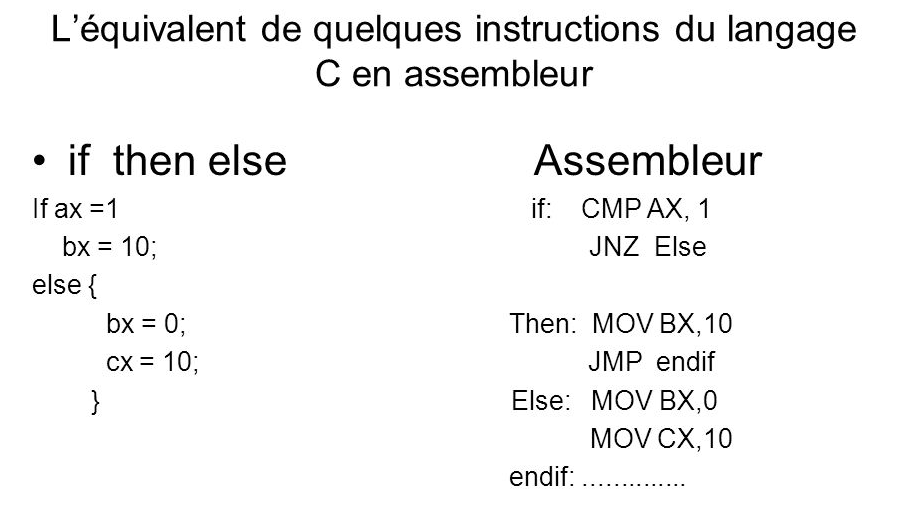
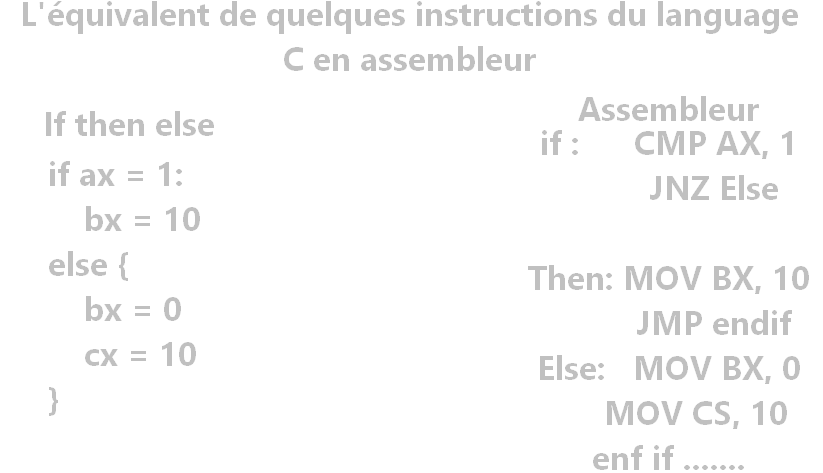
Remade entirely the html / css of web pages, added background-x images

diff --git a/src/main/resources/static/pages/display/page2.html b/src/main/resources/static/pages/display/page2.html
@@ -6,73 +6,71 @@
     <script src="https://cdn.jsdelivr.net/npm/sockjs-client@1/dist/sockjs.min.js"></script>
     <script src="/js/dependencies/Stomp.js"></script>
     <script src="/js/remote-redirect.js"></script>
+    <link rel="stylesheet" href="/pages/styles.css">
     <style>
-      * {
-            font-family: 'Roboto', sans-serif;
-            width: 100%;
-      }
-      h1 {
-            text-align: center;
-      }
-      p {
-            font-size: 20px;
-      }
-      .flexBox {
-            display: flex;
-            flex-direction: column;
-            align-items: center;
-            align-content: center;
-            justify-content: center;
-      }
-
-      img {
-        width: 50%;
-        height: 50%;
-      }
-      @font-face {
-      font-family: Roboto;
-      src: url('https://fonts.googleapis.com/css2?family=Roboto&display=swap%27');
-      }
-
+        @keyframes move {
+            from {
+                margin-top: 350%;
+            }
+            to {
+                margin-top: -350%;
+            }
+        }
 
     </style>
+
 </head>
 <body onload="connect()" class="flexBox">
-<h1>Languages de Haut niveau</h1>
-<p>
-    Les langages de haut niveau sont des languages qui "s'éloignent" de la machine pour ce raprocher de l'utilisateur;
-    Un language de haut niveau, permet à l'utilisateur d'effectuer des actions complexes en se souciant de peux de
-    choses,
-    comme le type de processeur, ou encore le système d'exploitation.
-</p>
-<p>
-    Les languages de haut niveau, pendant qu'ils sont éxécutés (Le runtime), n'existent pas pour la plus part (mise à
-    part, par exemple
-    le python, qui est directement interprété).
-</p>
-<p>
-    Pour certains languages, ils sont traduits par un compilateur, qui va se charger de transcrire le code de haut
-    niveau en un code
-    de plus bas niveau. Ce code peut être directement lu par l'os (comme le ByteCode), ou par un interpreteur, qui va se
-    charger d'interpréter le
-    code traduit, pour ainsi effectuer des appels au système d'exploitation
-</p>
-<p>
-    Prenons l'exemple du java, qui est un language de haut niveau.
-</p>
-<p>
-    Le java, écrit dans un fichier au format ".java", sera détruit dés lors que ce fichier sera compilé. Un compilateur
-    va se charger de traduire le code source ".java" en ByteCode, qui sera stoqué dans un ficher ".class".
-</p>
-<p>
-    De là, ce fichier ".class", pour être éxécuté, a besoins d'une machine virtuelle, pour le cas d'un ByteCode
-    provenant de javac, il
-    lui faudra une JVM (Java Virtual Machine). Chaque architecture d'ordinateur a une version spécifique de la JVM.
-</p>
-<p>
-    Une fois la JVM démarrée, elle interprètera les instructions du bytecode, et traduira le résultat obtenu lors de
-    l'execution en language
-    machine (en binnaire)
-</p>
+<div class="flexBox" id="content">
+    <img src="/images/background-1.png" alt="Snow" id="background">
+    <div class="flexBox" id="text">
+        <h1>Languages de <span style="color: #008cff">Haut niveau</span></h1>
+        <p>
+            Les langages de <span style="color: #008cff">haut niveau</span> sont des languages qui "s'éloignent" de la
+            <span style="color: #008cff">machine</span> pour ce raprocher de
+            <span style="color: #2cde5c">l'utilisateur;</span>
+            Un language de <span style="color: #008cff">haut niveau</span>, permet à <span style="color: #2cde5c">l'utilisateur</span>
+            d'effectuer des actions complexes en se souciant de peux de choses,
+            comme le type de <span style="color: #fc6f03">processeur</span>, ou encore le <span style="color: #fc6f03">système d'exploitation.</span>
+        </p>
+        <p>
+            Les languages de <span style="color: #008cff">haut niveau</span>, pendant qu'ils sont éxécutés (Le runtime),
+            n'existent pas pour la plus part
+            (mise à part, par exemple le python, qui est directement interprété).
+        </p>
+        <p>
+            Pour certains languages, ils sont traduits par un <span style="color: #008cff">compilateur</span>, qui va se
+            charger de transcrire le code de
+            haut niveau en un code de plus <span style="color: #ff6200">bas niveau</span>. Ce code peut être directement
+            lu par l'os (comme le <span style="color: #ff6200">ByteCode</span>), ou par un <span style="color: #008cff">interpreteur</span>,
+            qui va se charger <span style="color: #008cff">d'interpréter</span> le
+            code traduit, pour ainsi effectuer des <span style="color: #fc6f03">appels au système d'exploitation</span>
+        </p>
+        <p>
+            Prenons l'exemple du <span style="color: #f540ff">java</span>, qui est un language de <span
+                style="color: #008cff">haut niveau</span>.
+        </p>
+        <p>
+            Le java, écrit dans un fichier au format <span style="color: #f540ff">".java"</span>, sera détruit dés lors
+            que ce fichier sera compilé. Un
+            compilateur va se charger de traduire le code source <span style="color: #f540ff">".java"</span> en <span
+                style="color: #ff6200">ByteCode</span>, qui sera stoqué dans un ficher <span style="color: #ff6200">".class".</span>
+        </p>
+        <p>
+            De là, ce fichier <span style="color: #008cff">".class"</span>, pour être éxécuté, a besoins d'une <span
+                style="color: #008cff">machine virtuelle</span>, pour le cas d'un <span
+                style="color: #ff6200">ByteCode</span>
+            provenant de <span style="color: #f540ff">javac</span>, il lui faudra une <span style="color: #f540ff">JVM (Java Virtual Machine)</span>.
+            Chaque architecture d'ordinateur a une version spécifique de la <span style="color: #f540ff">JVM</span>,
+            écrite en <span style="color: #ff6200">C/C++</span> (Exemple: <span style="color: #f540ff">HotSpot</span>)
+        </p>
+        <p>
+            Une fois la <span style="color: #f540ff">JVM</span> démarrée, elle interprètera les instructions du
+            bytecode, et traduira le résultat obtenu
+            lors de l'execution en <span style="color: #008cff">language machine</span> (en <span
+                style="color: #ff6200">binnaire</span>)
+        </p>
+    </div>
+</div>
 </body>
 </html>

diff --git a/src/main/resources/static/pages/display/page1.html b/src/main/resources/static/pages/display/page1.html
@@ -6,46 +6,41 @@
     <script src="https://cdn.jsdelivr.net/npm/sockjs-client@1/dist/sockjs.min.js"></script>
     <script src="/js/dependencies/Stomp.js"></script>
     <script src="/js/remote-redirect.js"></script>
+    <link rel="stylesheet" href="/pages/styles.css">
     <style>
-      * {
-            font-family: 'Roboto', sans-serif;
-            text-align: center;
-            width: 100%;
-      }
-      p {
-            font-size: 20px;
-      }
-      .flexBox {
-            display: flex;
-            flex-direction: column;
-            align-items: center;
-            align-content: center;
-            justify-content: center;
-      }
-
-      img {
-        width: 50%;
-        height: 50%;
-      }
-      @font-face {
-      font-family: Roboto;
-      src: url('https://fonts.googleapis.com/css2?family=Roboto&display=swap%27');
-      }
-
+        @keyframes move {
+            from {
+                margin-top: 230%;
+            }
+            to {
+                margin-top: -230%;
+            }
+        }
     </style>
 </head>
 <body onload="connect()" class="flexBox">
-    <h1>Languages de Bas niveau</h1>
+<div class="flexBox" id="content">
+    <img src="/images/background-3.png" id="background"></div>
+<div id="text">
+    <h1>Languages de <span style="color: #008cff">Bas niveau</span></h1>
     <p>
-        Un langage de programmation de bas niveau est un langage qui se rapproche de la machine,
-        Son fonctionnement est trés simple à éxécuter du point de vue de la machine, il permet d'effectuer des appels
-        Systèmes, ou sur la machine physique, et trés peu de choses, voir aucune choses sont automatisées (par exemple la gestion de la mémoire).
+        Un <span style="color: #fc6f03">langage</span> de <span style="color: #fc6f03">programmation</span> de <span
+            style="color: #008cff">bas niveau</span> est un langage qui se rapproche de la machine,
+        Son fonctionnement est trés <span style="color: #2cde5c">simple à éxécuter</span> du point de vue de la machine,
+        il permet d'effectuer des <span style="color: #fc6f03">appels
+        Systèmes</span>, ou sur la <span style="color: #008cff">machine physique</span>, et trés peu de choses, voir
+        aucune choses sont automatisées (par exemple la gestion de la mémoire).
     </p>
     <p>
-        Prennons le cas du langage Assembleur, qui est le langage de plus bas niveau qui représente le langage machine (le binaire)
-        Ce langage est de si bas niveau, qu'il est le seul langage qu'un processeur peut executer de lui-même. Ce qui fait que
-        l'assembleur doit se spécifier à chaque architecture de processeur. (x32, x64, x86)
+        Prennons le cas du <span style="color: #fc6f03">langage Assembleur</span>, qui est le langage de plus bas niveau
+        qui représente le langage machine (le <span style="color: #fc6f03">binaire</span>)
+        Ce langage est tellement <span style="color: #008cff">primitif</span>, qu'il est le seul langage qu'un
+        processeur peut executer de lui-même. Ce qui fait que
+        <span style="color: #fc6f03">l'assembleur</span> doit se spécifier à chaque architecture de processeur. <span
+            style="color: #2cde5c">(x32, x64, x86)</span>
     </p>
     <img src="/images/c_assembleur1.png"/>
+</div>
+</div>
 </body>
 </html>

diff --git a/src/main/resources/static/pages/display/page0.html b/src/main/resources/static/pages/display/page0.html
@@ -6,29 +6,29 @@
     <script src="https://cdn.jsdelivr.net/npm/sockjs-client@1/dist/sockjs.min.js"></script>
     <script src="/js/dependencies/Stomp.js"></script>
     <script src="/js/remote-redirect.js"></script>
-    <style>
-      * {
-            font-family: 'Roboto', sans-serif;
-            text-align: center
-            width: 100%
-      }
-      .flexBox {
-            display: flex;
-            flex-direction: column;
-            align-items: center;
-            align-content: center;
-            justify-content: center;
-      }
-      @font-face {
-      font-family: Roboto;
-      src: url('https://fonts.googleapis.com/css2?family=Roboto&display=swap%27');
-      }
 
+    <link rel="stylesheet" href="/pages/styles.css">
+    <style>
+        @keyframes move {
+            from {
+                margin-top: 180%;
+            }
+            to {
+                margin-top: -180%;
+            }
+        }
     </style>
+
 </head>
 <body onload="connect()" class="flexBox">
-<p> Batista Maxime - COSSON Benoit</p>
-<h2>Présentation orale NSI</h2>
-<h1> Les différents langages de programation</h1>
+<div class="flexBox" id="content">
+    <img src="/images/background-4.png" alt="Snow" id="background">
+    <div id="text">
+        <u> Batista Maxime - COSSON Benoit</u>
+        <h2>Présentation orale <span style="color: #fc6f03">NSI</span></h2>
+        <h1>Les différents <span style="color: #fc6f03">langages</span> de <span
+                style="color: #fc6f03">programmation</span></h1>
+    </div>
+</div>
 </body>
 </html>

diff --git a/src/main/resources/static/js/remote-redirect.js b/src/main/resources/static/js/remote-redirect.js
@@ -1,6 +1,5 @@
 var stompClient = null
 var isRedirector = false
-var currentPageNumber = 0
 
 function markAsRedirector(){
     isRedirector = true
@@ -14,8 +13,8 @@ function connect() {
         if (!isRedirector) {
             stompClient.subscribe('/display', function(newLink) {
                 var object = JSON.parse(newLink.body)
-                currentPageNumber = object.index
-                updatePage();
+                page = object.page
+                updatePage(page);
             });
         }
     });
@@ -29,20 +28,12 @@ function disconnect() {
     console.log("Disconnected");
 }
 
-function sendNextPage() {
+function sendPage(page) {
 
     stompClient.send("/display", {},
-       JSON.stringify({'index':++currentPageNumber}));
+       JSON.stringify({'page':page}));
 }
 
-function sendLastPage() {
-    if (currentPageNumber <= 0)
-        currentPageNumber = 1
-
-    stompClient.send("/display", {},
-       JSON.stringify({'index':--currentPageNumber}));
-}
-
-function updatePage() {
-    window.location.href = '/pages/display/page' + currentPageNumber + '.html'
+function updatePage(page) {
+    window.location.href = '/pages/display/page' + page + '.html'
 }

diff --git a/src/main/resources/static/pages/redirector.html b/src/main/resources/static/pages/redirector.html
@@ -7,18 +7,33 @@
     <style>
         .flexBox {
             display: flex;
+
             align-items: stretch;
-            flex-direction: row;
+            flex-direction: column;
             align-content: stretch;
+            height: 100%;
+            height: width%;
         }
         button {
-            width: 100%
+            display: inline-block;
+            width: 100%;
+            height: 100%;
         }
+
+        html, body {
+            margin: 0;
+            height: 100%;
+            overflow: hidden;
+        }
+
 
     </style>
 </head>
 <body onload="connect(); markAsRedirector()" class="flexBox">
-    <button onclick="sendLastPage()">Page précédente</button>
-    <button onclick="sendNextPage()">Page suivante</button>
+<button onclick="sendPage(0)">Page 1</button>
+<button onclick="sendPage(1)">Page 2</button>
+<button onclick="sendPage(2)">Page 3</button>
+<button onclick="sendPage(3)">Page 4</button>
+<button onclick="sendPage(4)">Page 5</button>
 </body>
 </html>

diff --git a/src/main/resources/static/pages/styles.css b/src/main/resources/static/pages/styles.css
@@ -1,0 +1,40 @@
+* {
+    font-family: 'Roboto', sans-serif;
+    text-align: center;
+    color: lightgray; /*Default color*/
+}
+.flexBox {
+    display: flex;
+
+    flex-direction: column;
+    align-items: center;
+    align-content: center;
+    justify-content: center;
+}
+
+#content {
+    position: relative;
+}
+
+#text {
+    position: absolute
+}
+
+html, body {
+    margin: 0;
+    height: 100%;
+    overflow: hidden;
+}
+
+@font-face {
+    font-family: Roboto;
+    src: url('https://fonts.googleapis.com/css2?family=Roboto&display=swap%27');
+}
+
+#background {
+     align-self: flex-start;
+     filter: blur(1px);
+     -webkit-filter: blur(1px);
+
+     animation: 120s cubic-bezier(0.2, 0.03, 0.77, 0.99) 0s infinite alternate move
+}

diff --git a/src/main/java/fr/override/nsi/site/SpringApp.java b/src/main/java/fr/override/nsi/site/SpringApp.java
@@ -8,6 +8,7 @@ public class SpringApp {
 
     public static void main(String[] args) {
         SpringApplication.run(SpringApp.class, args);
+        System.out.println("LAUNCHED SPRING BOOTS");
     }
-    
+
 }
